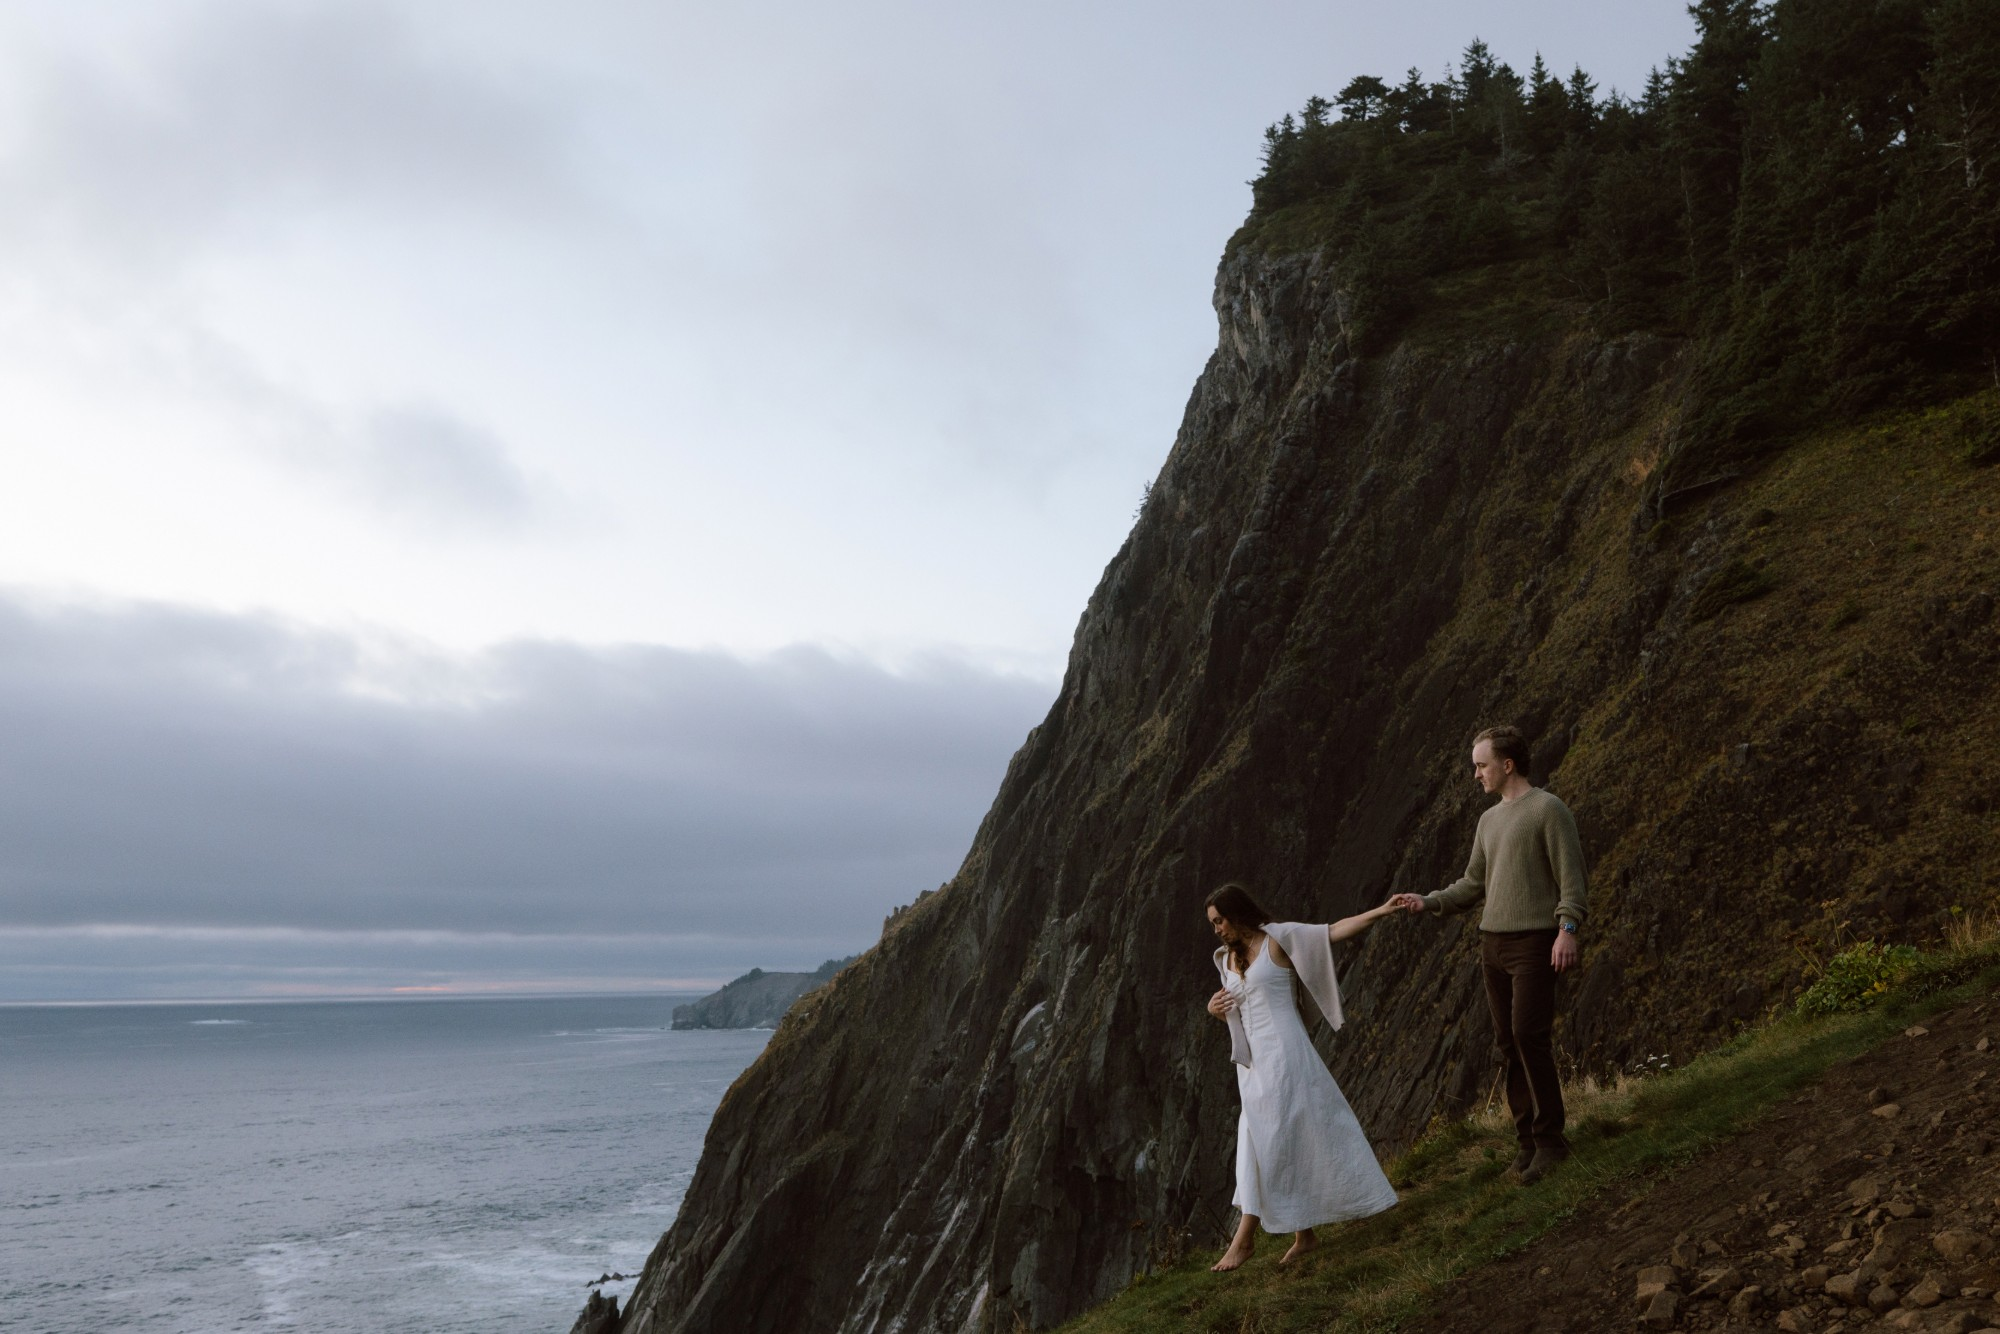
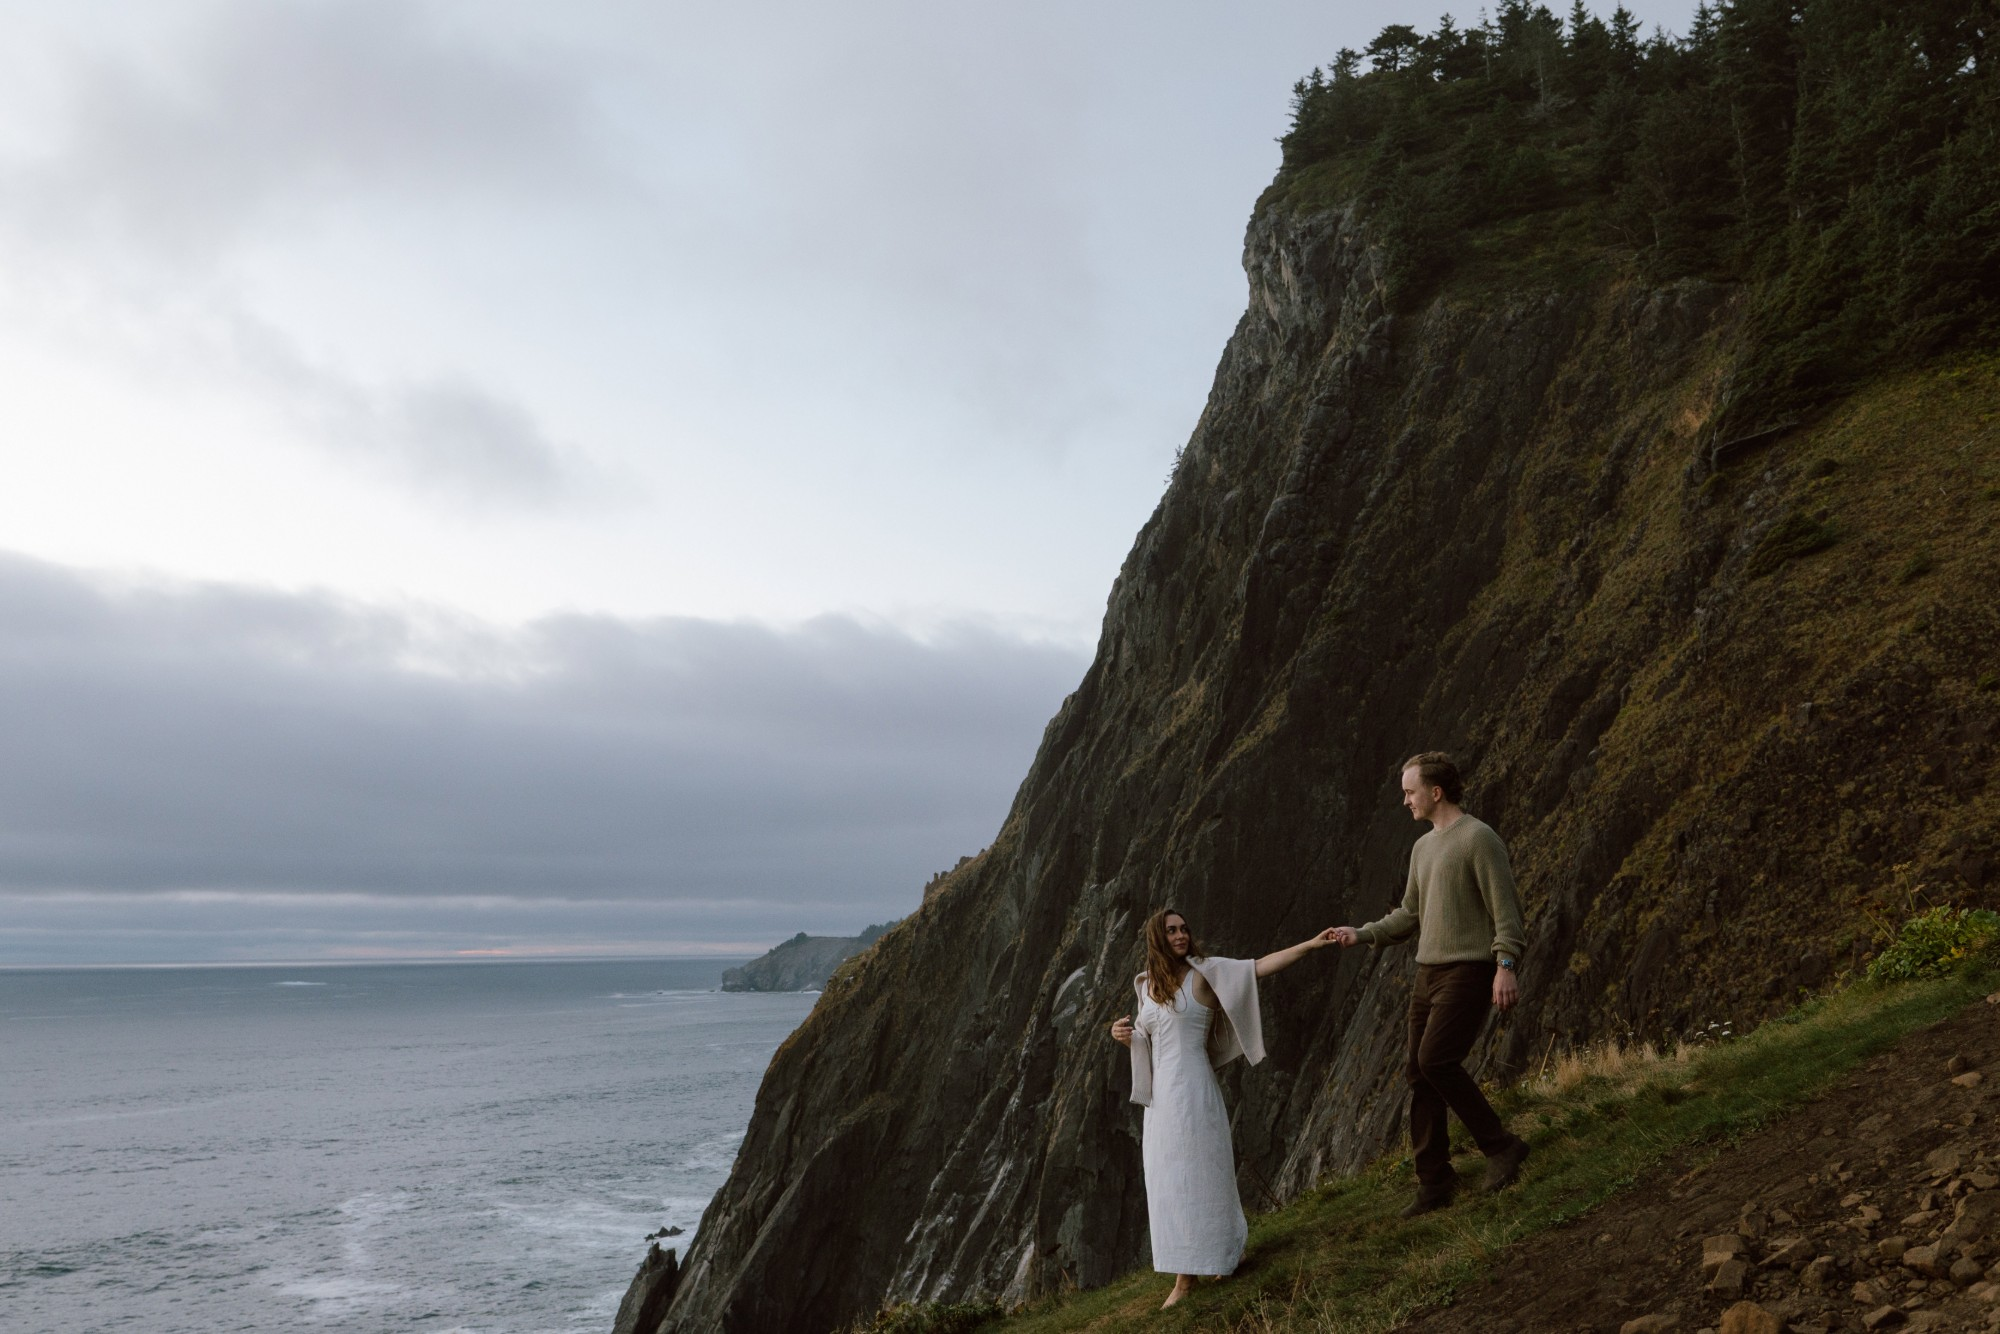
Use forest green background and swap in new hero photo

diff --git a/index.html b/index.html
@@ -26,12 +26,14 @@
       --light:   #e6e3cf;
       --tan:     #a9895a;
       --pine:    #2f4a3a;
+      --bg:      #2f4a3a;
+      --ink:     #f4e4c5;
     }
 
     body {
       font-family: Georgia, 'Times New Roman', serif;
-      background: var(--parchment);
-      color: var(--dark);
+      background: var(--bg);
+      color: var(--ink);
     }
 
     /* NAV — on the home page it sits inside the hero, under the countdown */
@@ -49,16 +51,16 @@
       font-size: calc(0.7rem + 1pt);
       letter-spacing: 0.2em;
       text-transform: uppercase;
-      color: var(--dark);
+      color: var(--ink);
       text-decoration: none;
       text-underline-offset: 0.5em;
-      transition: color 0.2s;
+      transition: opacity 0.2s;
       display: flex;
       align-items: center;
       min-height: 44px;
       padding: 0 0.5rem;
     }
-    nav a:hover { color: var(--ember); }
+    nav a:hover { opacity: 0.7; }
     nav a:focus, nav a:focus-visible { outline: none; }
     nav a.current { text-decoration: underline; text-decoration-thickness: 1px; }
 
@@ -101,11 +103,11 @@
       font-size: clamp(2.5rem, 9vw, 4.5rem);
       font-weight: 400;
       line-height: 1.1;
-      color: var(--dark);
+      color: var(--ink);
       letter-spacing: 0;
     }
     h1 .amp {
-      color: var(--dark);
+      color: var(--ink);
       font-weight: 400;
     }
     .hero-when {
@@ -117,13 +119,13 @@
       gap: 0 0.75rem;
       line-height: 1.5;
     }
-    .hero-sep { color: var(--dark); }
+    .hero-sep { color: var(--ink); }
     .hero-date,
     .hero-location {
       font-family: 'VS John Muir Sans Wide', sans-serif;
       font-size: clamp(0.85rem, 3.5vw, 1rem);
       letter-spacing: 0.25em;
-      color: var(--dark);
+      color: var(--ink);
       text-transform: uppercase;
     }
 
@@ -133,7 +135,7 @@
       font-family: 'VS John Muir Sans Wide', sans-serif;
       font-size: clamp(0.85rem, 3.5vw, 1rem);
       letter-spacing: 0.25em;
-      color: var(--dark);
+      color: var(--ink);
       text-transform: uppercase;
     }
 
@@ -148,7 +150,7 @@
       font-size: calc(0.65rem + 1pt);
       letter-spacing: 0.15em;
       text-transform: uppercase;
-      color: var(--sage);
+      color: var(--ink);
       margin-bottom: 1rem;
     }
     h2 {
@@ -157,7 +159,7 @@
       font-weight: 700;
       margin-bottom: 2rem;
     }
-    p { line-height: 1.9; color: var(--muted); margin-bottom: 1rem; font-size: 1.05rem; }
+    p { line-height: 1.9; color: var(--ink); margin-bottom: 1rem; font-size: 1.05rem; }
 
     /* DETAILS — casual drinks, welcome party, wedding day */
     #details { max-width: 100%; padding: 1rem 2rem 4.5rem; }
@@ -173,7 +175,7 @@
       font-size: 2.2rem;
       font-weight: 400;
       line-height: 1.2;
-      color: var(--dark);
+      color: var(--ink);
       margin-bottom: 0.75rem;
     }
     .event p { margin-bottom: 0.3rem; font-size: 1rem; line-height: 1.6; }
@@ -182,7 +184,7 @@
       font-size: 0.8rem;
       letter-spacing: 0.2em;
       text-transform: uppercase;
-      color: var(--dark);
+      color: var(--ink);
       margin-bottom: 0.6rem;
     }
     /* Wedding day schedule: times on the left, event names on the right */
@@ -211,11 +213,11 @@
       left: 50%;
       width: 220px;
       transform: translateX(-50%);
-      border-top: 1px solid var(--tan);
+      border-top: 1px solid var(--ink);
     }
     .event-time {
       text-align: right;
-      color: var(--muted);
+      color: var(--ink);
       line-height: 1.6;
     }
     .event-part {
@@ -224,7 +226,7 @@
       font-size: 0.7rem;
       letter-spacing: 0.15em;
       text-transform: uppercase;
-      color: var(--rust);
+      color: var(--ink);
     }
     .event .event-attire { margin-top: 0.75rem; font-style: italic; }
 
@@ -242,10 +244,10 @@
       display: flex;
       align-items: center;
       justify-content: center;
-      color: var(--muted);
+      color: var(--ink);
       font-style: italic;
       font-size: 0.9rem;
-      border: 1px solid var(--tan);
+      border: 1px solid var(--ink);
     }
 
     /* FOOTER */
@@ -253,8 +255,8 @@
       text-align: center;
       padding: 3rem 2rem;
       font-size: 0.85rem;
-      color: var(--muted);
-      border-top: 2px solid var(--pine);
+      color: var(--ink);
+      border-top: 2px solid var(--ink);
       font-style: italic;
     }
   </style>
